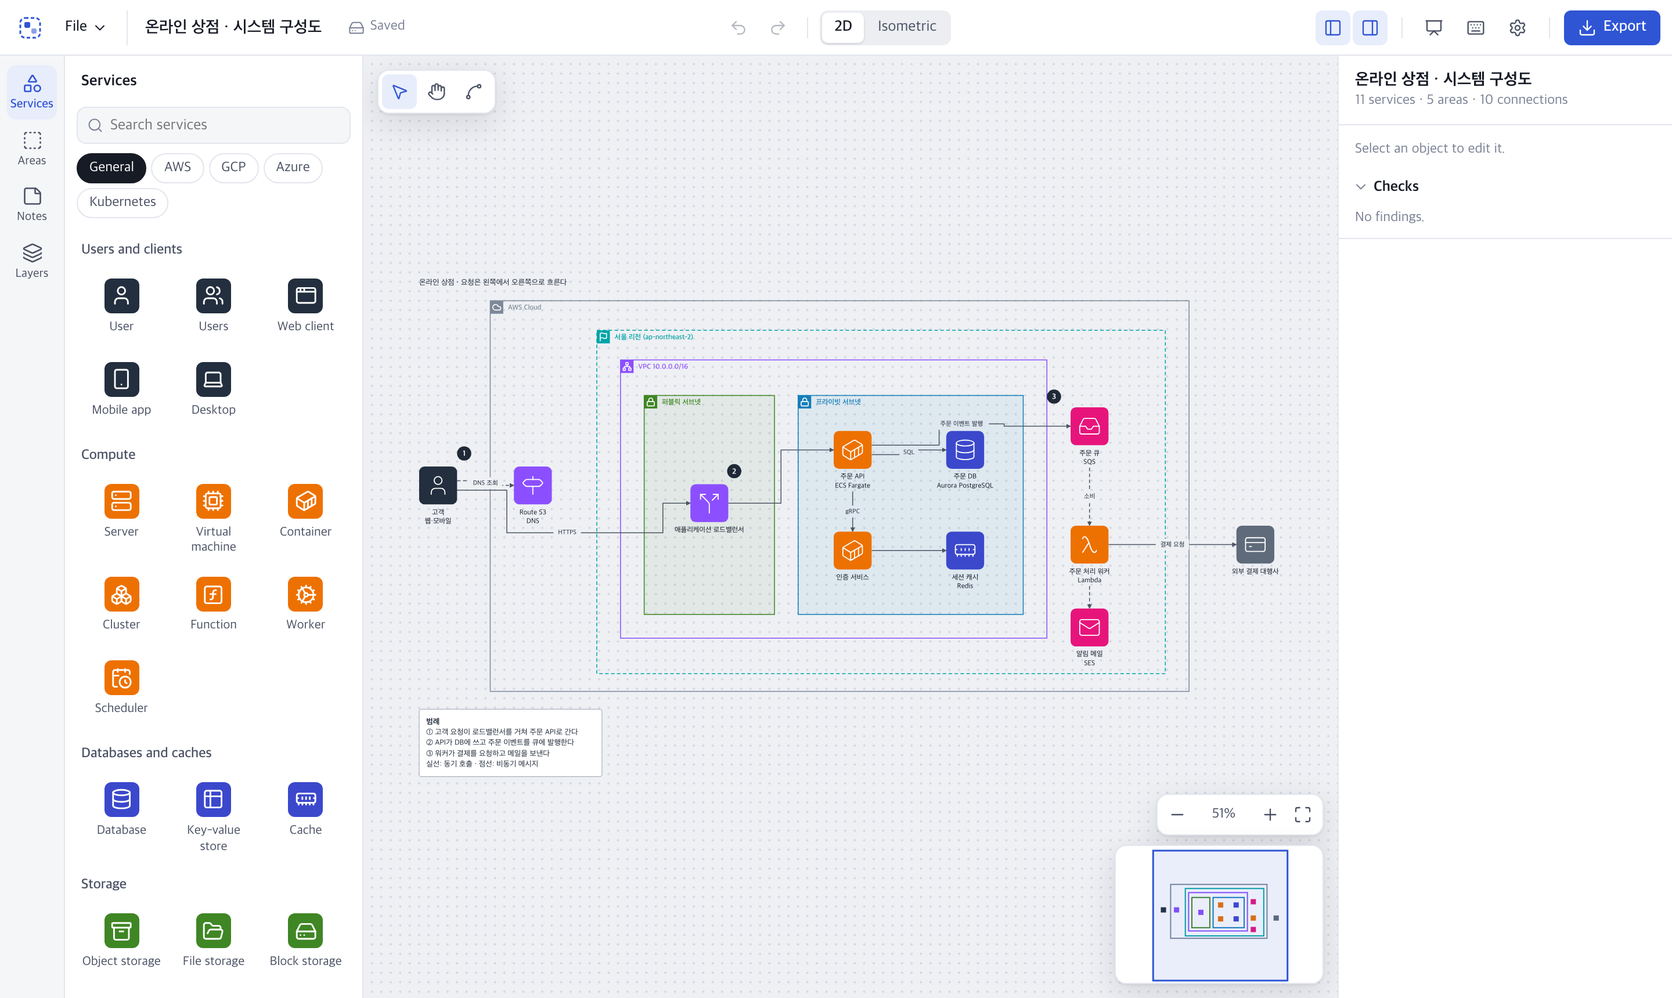
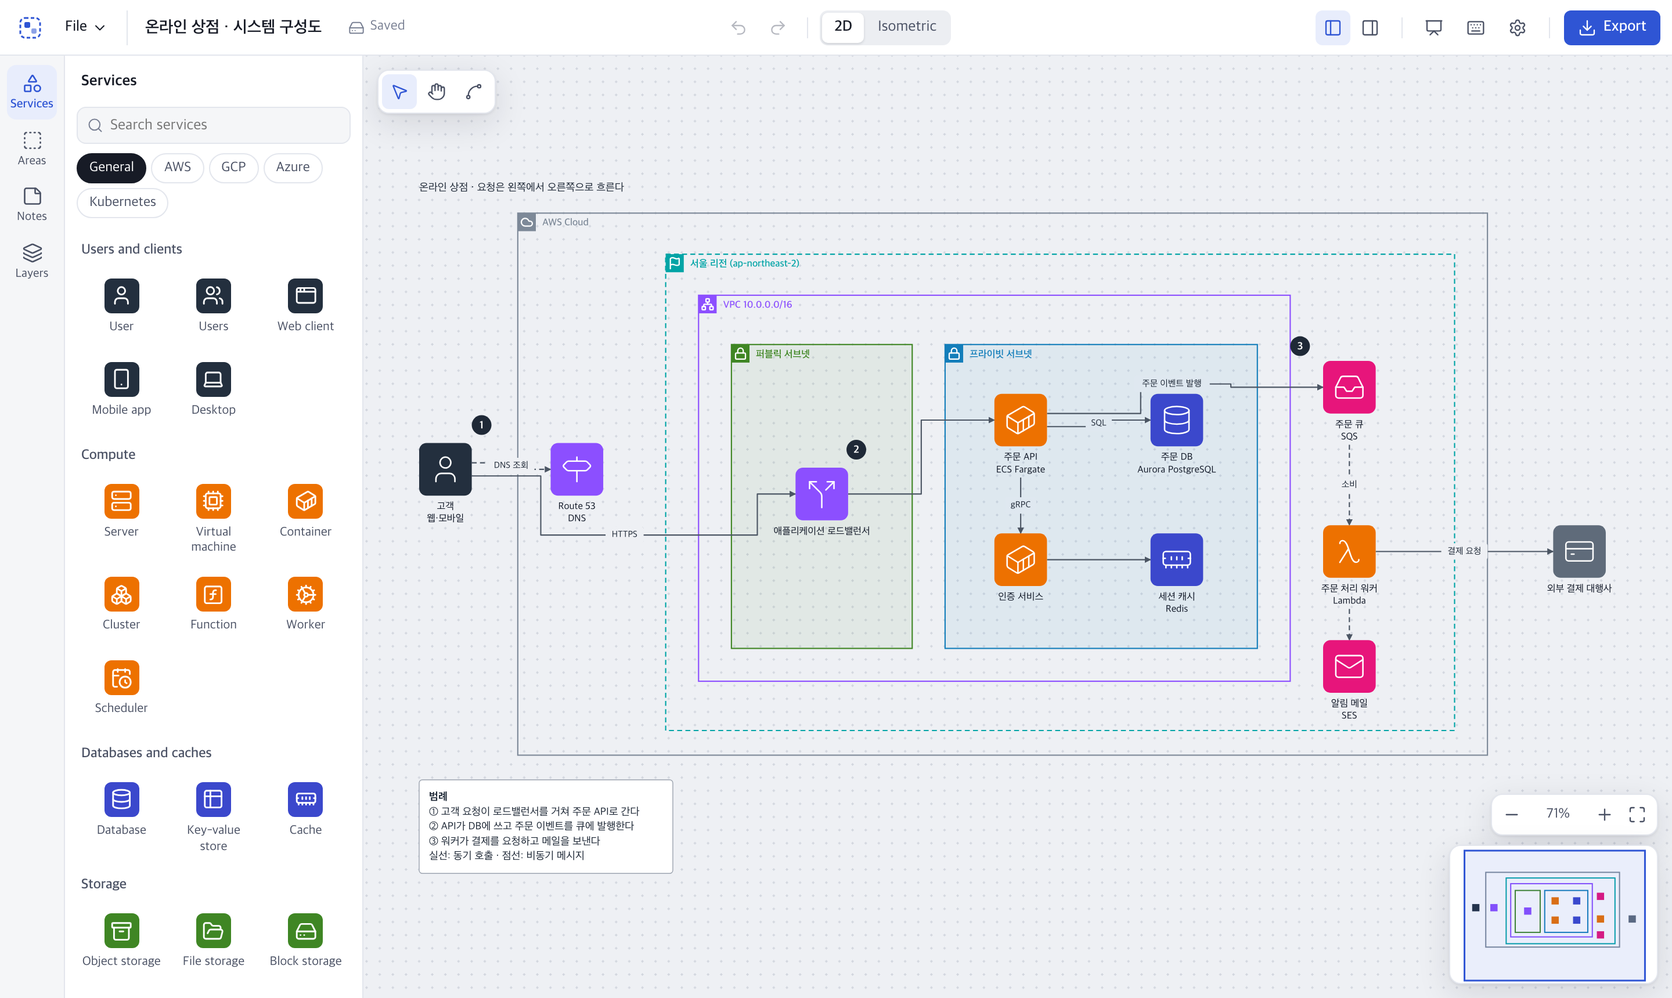
기본 우측 메뉴 처리

diff --git a/src/components/Toolbar.tsx b/src/components/Toolbar.tsx
@@ -49,6 +49,8 @@ interface ToolbarProps extends ToolbarActions {
   fileName: string | null;
   leftOpen: boolean;
   rightOpen: boolean;
+  /** Checks that found something; shown on the inspector toggle while the inspector is folded. */
+  findingCount: number;
   drive?: DriveBar;
   /** Usage statistics in this build: the current choice and how to change it. */
   stats?: { readonly granted: boolean; toggle(): void };
@@ -79,6 +81,8 @@ export function Toolbar(props: ToolbarProps) {
   // Linked to a Drive file, the Drive status is the save status; otherwise it is this browser.
   const driveLinked = drive !== undefined && drive.view.state.status !== 'unlinked';
   const both = t('panels.both', { key: `${mod}\\` });
+  // Folded, the inspector still says when the checks found something.
+  const flagged = !props.rightOpen && !props.presenting && props.findingCount > 0;
   return (
     <header className="topbar" role="toolbar" aria-label="Structlet">
       <div className="topbar-start">
@@ -149,7 +153,10 @@ export function Toolbar(props: ToolbarProps) {
       <div className="topbar-end">
         <div className="panel-toggles" role="group" aria-label={t('panels.label')}>
           <IconButton icon="panelLeft" label={`${props.leftOpen ? t('panels.left.hide') : t('panels.left.show')} (${both})`} pressed={props.leftOpen} disabled={props.presenting} onClick={() => props.onLeftPanel(!props.leftOpen)} testId="toggle-left" />
-          <IconButton icon="panelRight" label={`${props.rightOpen ? t('panels.right.hide') : t('panels.right.show')} (${both})`} pressed={props.rightOpen} disabled={props.presenting} onClick={() => props.onRightPanel(!props.rightOpen)} testId="toggle-right" />
+          <span className="badge-anchor">
+            <IconButton icon="panelRight" label={`${props.rightOpen ? t('panels.right.hide') : t('panels.right.show')}${flagged ? ` · ${t('panels.findings', { count: props.findingCount })}` : ''} (I · ${both})`} pressed={props.rightOpen} disabled={props.presenting} onClick={() => props.onRightPanel(!props.rightOpen)} testId="toggle-right" />
+            {flagged && <span className="toggle-badge" data-testid="findings-badge" aria-hidden="true">{props.findingCount > 9 ? '9+' : props.findingCount}</span>}
+          </span>
         </div>
         <span className="topbar-divider" aria-hidden="true" />
         <IconButton icon="present" label={`${props.presenting ? t('view.exit') : t('view.present')} (${mod}.)`} pressed={props.presenting} onClick={() => props.onPresent(!props.presenting)} testId="tb-present" />

diff --git a/tests/e2e/tools-panels.spec.ts b/tests/e2e/tools-panels.spec.ts
@@ -161,3 +161,34 @@ test('the save status sits right after the title and follows its length', async 
   await expect.poll(async () => (await title.boundingBox())!.width).toBeLessThan(wide);
   expect(await gap()).toBeLessThan(12);
 });
+
+test('the inspector starts folded, opens with I, and its toggle counts check findings', async ({ page }) => {
+  await freshApp(page, 'en', { inspector: false });
+  await expect(page.locator('.inspector')).toHaveCount(0);
+  await expect(page.getByTestId('toggle-right')).toHaveAttribute('aria-pressed', 'false');
+  await expect(page.getByTestId('findings-badge')).toHaveCount(0);
+
+  // Two services with no line between them are two findings ("Service without connections"):
+  // the folded toggle says so.
+  const search = page.getByLabel('Search services');
+  await search.fill('server');
+  await page.locator('[data-service="server"]').click();
+  await search.fill('database');
+  await page.locator('[data-service="database"]').click();
+  await page.keyboard.press('Escape');
+  await expect(page.getByTestId('findings-badge')).toHaveText('2');
+  await expect(page.getByTestId('toggle-right')).toHaveAttribute('aria-label', /2 check findings/);
+
+  // I opens the inspector, where the finding is listed, and the badge steps aside.
+  await page.locator('body').press('i');
+  await expect(page.locator('.inspector')).toBeVisible();
+  await expect(page.getByTestId('checks')).toContainText('Service without connections');
+  await expect(page.getByTestId('findings-badge')).toHaveCount(0);
+  await page.locator('body').press('i');
+  await expect(page.locator('.inspector')).toHaveCount(0);
+
+  // Typing an I into a field does not fold anything.
+  await page.locator('body').press('i');
+  await search.fill('i');
+  await expect(page.locator('.inspector')).toBeVisible();
+});

diff --git a/src/app/use-shortcuts.ts b/src/app/use-shortcuts.ts
@@ -13,6 +13,7 @@ interface ShortcutDeps {
   setTool(tool: CanvasTool): void;
   tool(): CanvasTool;
   togglePanels(): void;
+  toggleInspector(): void;
   presenting(): boolean;
   setPresenting(on: boolean): void;
 }
@@ -25,7 +26,7 @@ export function useShortcuts(deps: ShortcutDeps): void {
     const onKey = (e: KeyboardEvent) => {
       const target = e.target as HTMLElement | null;
       if (target?.closest?.('input, textarea, select, [contenteditable="true"]')) return;
-      const { editor, actions, fit, zoom, edit, setTool, tool, togglePanels, presenting, setPresenting } = latest.current;
+      const { editor, actions, fit, zoom, edit, setTool, tool, togglePanels, toggleInspector, presenting, setPresenting } = latest.current;
       const session = editor.session;
       const mod = e.metaKey || e.ctrlKey;
       const key = e.key.toLowerCase();
@@ -49,6 +50,11 @@ export function useShortcuts(deps: ShortcutDeps): void {
       if (!mod && !e.altKey && !e.shiftKey && (key === 'v' || key === 'h' || key === 'c') && !presenting()) {
         handled();
         setTool(key === 'v' ? 'select' : key === 'h' ? 'hand' : 'connect');
+        return;
+      }
+      if (!mod && !e.altKey && !e.shiftKey && key === 'i' && !presenting()) {
+        handled();
+        toggleInspector();
         return;
       }
       if (presenting()) return;

diff --git a/src/app/styles.css b/src/app/styles.css
@@ -341,6 +341,8 @@ button.twisty:hover { background: var(--surface-3); color: var(--ink); }
 .tool-hint { position: absolute; left: 12px; top: 56px; z-index: 4; max-width: 320px; padding: 5px 10px; background: var(--surface); border: 1px solid var(--line); border-radius: 8px; box-shadow: var(--float); color: var(--ink-2); font-size: 12px; }
 .tool-hint.present { top: 12px; }
 .panel-toggles { display: flex; gap: 2px; }
+.badge-anchor { position: relative; display: inline-flex; }
+.toggle-badge { position: absolute; top: -3px; right: -4px; min-width: 14px; height: 14px; padding: 0 3px; border-radius: 999px; background: var(--warn); color: var(--surface); font-size: 9.5px; font-weight: 600; line-height: 14px; text-align: center; pointer-events: none; box-shadow: 0 0 0 2px var(--surface); }
 
 /* Google Drive */
 .drive-button { display: inline-flex; align-items: center; gap: 5px; height: 26px; padding: 0 9px; border: 1px solid var(--line); border-radius: 999px; background: var(--surface); color: var(--ink-2); white-space: nowrap; font-size: 12px; }

diff --git a/tests/e2e/helpers.ts b/tests/e2e/helpers.ts
@@ -1,11 +1,16 @@
 import { expect, type Page } from '@playwright/test';
 
-export async function freshApp(page: Page, language: 'ko' | 'en' = 'en') {
+/**
+ * A first visit, except that the inspector starts open: most tests edit through it.
+ * Pass `{ inspector: false }` for the real first-visit layout (inspector folded).
+ */
+export async function freshApp(page: Page, language: 'ko' | 'en' = 'en', { inspector = true }: { inspector?: boolean } = {}) {
   await page.goto('/');
-  await page.evaluate((l) => {
+  await page.evaluate(([l, open]) => {
     localStorage.clear();
     localStorage.setItem('structlet:language', l);
-  }, language);
+    if (open) localStorage.setItem('structlet:panels', JSON.stringify({ left: true, right: true }));
+  }, [language, inspector] as const);
   await page.reload();
   await expect(page.getByTestId('canvas')).toBeVisible();
 }

diff --git a/src/app/App.tsx b/src/app/App.tsx
@@ -213,6 +213,7 @@ export function App({ editor, store, files, packStore, drive: driveServices, dri
     edit: setEditing,
     setTool,
     togglePanels: () => togglePanels(),
+    toggleInspector: () => setPanels({ ...panelsRef.current, right: !panelsRef.current.right }),
     presenting: () => presentingRef.current,
     setPresenting,
     tool: () => toolRef.current,
@@ -280,6 +281,7 @@ export function App({ editor, store, files, packStore, drive: driveServices, dri
         onShortcuts={() => setShortcutsOpen(true)}
         leftOpen={panels.left}
         rightOpen={panels.right}
+        findingCount={findings.length}
         onLeftPanel={(left) => setPanels({ ...panels, left })}
         onRightPanel={(right) => setPanels({ ...panels, right })}
         onTogglePanels={togglePanels}

diff --git a/src/i18n/ko.ts b/src/i18n/ko.ts
@@ -261,9 +261,11 @@ export const ko: Record<MessageKey, string> = {
   'view.hint': '보기 모드: 끌어서 이동하고 스크롤로 확대합니다. Esc를 누르면 다시 편집합니다.',
   'sc.tools': '선택, 손, 연결 도구',
   'sc.panels': '패널 숨기기, 보이기',
+  'sc.inspector': '인스펙터 숨기기, 보이기',
   'sc.present': '보기 모드',
   'tool.connectHint': '한 상자에서 다른 상자로 끌어 연결합니다. Esc를 누르면 멈춥니다.',
   'panels.both': '양쪽: {key}',
+  'panels.findings': '점검 {count}건',
   'panels.label': '패널',
   'drive.section': 'Google Drive',
   'drive.connect': 'Google Drive 연결',

diff --git a/src/i18n/en.ts b/src/i18n/en.ts
@@ -259,9 +259,11 @@ export const en = {
   'view.hint': 'View mode: drag to move, scroll to zoom. Press Esc to edit again.',
   'sc.tools': 'Select, hand, connect tools',
   'sc.panels': 'Hide or show panels',
+  'sc.inspector': 'Hide or show the inspector',
   'sc.present': 'View mode',
   'tool.connectHint': 'Drag from one box to another to connect them. Press Esc to stop.',
   'panels.both': 'both: {key}',
+  'panels.findings': '{count} check findings',
   'panels.label': 'Panels',
   'drive.section': 'Google Drive',
   'drive.connect': 'Connect Google Drive',

diff --git a/src/app/preferences.ts b/src/app/preferences.ts
@@ -10,7 +10,9 @@ export function storedPanels(): Panels {
   } catch {
     // per-browser convenience only
   }
-  return { left: true, right: !window.matchMedia?.('(max-width: 1100px)').matches };
+  // The inspector starts folded: an empty canvas has nothing to inspect. It opens from its
+  // top-bar toggle or `I`, and the toggle shows how many checks found something.
+  return { left: true, right: false };
 }
 
 export const RECENT_KEY = 'structlet:recent-services';

diff --git a/src/components/Overlays.tsx b/src/components/Overlays.tsx
@@ -38,6 +38,7 @@ const SHORTCUTS: [string, MessageKey][] = [
   ['Alt', 'sc.marquee'],
   ['V H C', 'sc.tools'],
   ['⌘\\', 'sc.panels'],
+  ['I', 'sc.inspector'],
   ['⌘.', 'sc.present'],
 ];
 

diff --git a/README.md b/README.md
@@ -9,14 +9,17 @@ and export to SVG or PNG — no server, no account, no external AI calls.
 
 [![CI](https://github.com/sejoung/Structlet/actions/workflows/ci.yml/badge.svg)](https://github.com/sejoung/Structlet/actions/workflows/ci.yml)
 [![Pages](https://github.com/sejoung/Structlet/actions/workflows/pages.yml/badge.svg)](https://github.com/sejoung/Structlet/actions/workflows/pages.yml)
-[![License](https://img.shields.io/badge/license-Apache--2.0-blue.svg)](LICENSE)
-[![Node](https://img.shields.io/badge/node-%3E%3D22-339933?logo=node.js&logoColor=white)](.nvmrc)
+[![License](https://img.shields.io/github/license/sejoung/Structlet)](LICENSE)
+[![Node](https://img.shields.io/badge/dynamic/json?url=https%3A%2F%2Fraw.githubusercontent.com%2Fsejoung%2FStructlet%2Fmain%2Fpackage.json&query=%24.engines.node&label=node&logo=node.js&logoColor=white&color=339933)](package.json)
 <br>
-[![TypeScript](https://img.shields.io/badge/TypeScript-3178C6?logo=typescript&logoColor=white)](tsconfig.json)
-[![React](https://img.shields.io/badge/React_19-20232A?logo=react&logoColor=61DAFB)](package.json)
-[![Vite](https://img.shields.io/badge/Vite-646CFF?logo=vite&logoColor=white)](vite.config.ts)
-[![Vitest](https://img.shields.io/badge/unit_tests-122-6E9F18?logo=vitest&logoColor=white)](tests/unit)
-[![Playwright](https://img.shields.io/badge/e2e_tests-36-2EAD33?logo=playwright&logoColor=white)](tests/e2e)
+[![TypeScript](https://img.shields.io/github/package-json/dependency-version/sejoung/Structlet/dev/typescript?logo=typescript&logoColor=white&color=3178C6&label=typescript)](tsconfig.json)
+[![React](https://img.shields.io/github/package-json/dependency-version/sejoung/Structlet/react?logo=react&logoColor=61DAFB&color=20232A&label=react)](package.json)
+[![Vite](https://img.shields.io/github/package-json/dependency-version/sejoung/Structlet/dev/vite?logo=vite&logoColor=white&color=646CFF&label=vite)](vite.config.ts)
+<br>
+[![Vitest](https://img.shields.io/badge/unit-Vitest-6E9F18?logo=vitest&logoColor=white)](tests/unit)
+[![Playwright](https://img.shields.io/badge/e2e-Playwright-2EAD33?logo=playwright&logoColor=white)](tests/e2e)
+[![oxlint](https://img.shields.io/badge/lint-oxlint-32F3E9)](.oxlintrc.json)
+[![dependency-cruiser](https://img.shields.io/badge/architecture-dependency--cruiser-4B32C3)](.dependency-cruiser.cjs)
 
 **English** · [한국어](README.ko.md)
 
@@ -40,7 +43,7 @@ and export to SVG or PNG — no server, no account, no external AI calls.
 
 ## Getting started
 
-Requires Node.js 22 or later (developed on Node 24, npm 11).
+Requires Node.js 22 or later (CI and development use Node 24 from [`.nvmrc`](.nvmrc), npm 11).
 
 ```bash
 npm install
@@ -52,10 +55,11 @@ The editor opens on an empty canvas. Choose **File → Sample** (or **Open sampl
 | Command | What it does |
 | --- | --- |
 | `npm run dev` | Dev server (`127.0.0.1:5183`). Drive works; usage statistics are not sent |
+| `npm run typecheck` | Type check only (`tsc --noEmit`) |
 | `npm run build` | Type check + static build (`dist/`). Uses relative paths, so any static host works, at the domain root or a sub-path |
 | `npm run build:single` | One HTML file (`dist-single/structlet.html`, about 0.5 MB) that opens by double-click (`file://`) |
 | `npm run preview` | Preview the build (`127.0.0.1:5184`, with CSP) |
-| `npm test` | Unit tests (Vitest, `tests/unit`) |
+| `npm test` | Unit tests (Vitest, `tests/unit`); `npm run test:watch` reruns them on change |
 | `npm run e2e` | Builds the single file, then runs E2E (Playwright, `tests/e2e`) against two production builds served by `vite preview`, with Google mocked. Run `npx playwright install chromium` once first |
 | `npm run lint` | oxlint: at most 400 lines per file, no `console` in `src/`, correctness rules (`.oxlintrc.json`) |
 | `npm run deps` | dependency-cruiser: layer direction, allowed packages, cycles, unresolvable or undeclared imports (`.dependency-cruiser.cjs`) |
@@ -75,7 +79,7 @@ The screen has four parts:
 
 - **Top bar** — on the left, the file menu, the title and, right after it, where the diagram is saved (this browser, or Google Drive once linked); undo and 2D / isometric in the middle; on the right, panel toggles, view mode, shortcuts, settings (⚙) and **Export**.
 - **Left** — an icon rail switches between the **Services / Areas / Notes / Layers** panels.
-- **Right inspector** — properties of the selected object.
+- **Right inspector** — properties of the selected object. Folded on the first visit; open it with its top-bar toggle or `I` when you need it.
 - **Canvas** — a toolbar floats at the top left; the zoom bar and minimap at the bottom right.
 
 <details>
@@ -84,7 +88,8 @@ The screen has four parts:
 The panels can be hidden. Two toggles — **[left panel] [right panel]** — always sit in the same place on the right of the top bar.
 
 - A toggle shows as pressed while its panel is visible.
-- `⌘\` toggles both at once. Clicking the open tab on the rail again also collapses the left panel.
+- `⌘\` toggles both at once, and `I` toggles the inspector. Clicking the open tab on the rail again also collapses the left panel.
+- The inspector starts folded: an empty canvas has nothing to inspect. While it is folded, its toggle shows how many checks found something.
 - The hidden state is remembered in this browser. The right panel collapses automatically when the window is narrower than 1100 px.
 - Opening and closing panels keeps the diagram's on-screen center in place.
 
@@ -153,10 +158,15 @@ The panels can be hidden. Two toggles — **[left panel] [right panel]** — alw
 | ⌘D, Delete/Backspace | Duplicate, delete |
 | ⌘A, Esc | Select all, deselect |
 | Arrows, ⇧+arrows | Move 1 px, 8 px |
+| Enter / F2, ⇧+Enter | Rename, line break while renaming |
+| Tab, ⇧+Tab | Next, previous object on the canvas |
+| ⌘0, ⌘+, ⌘− | Fit to screen, zoom in, zoom out |
+| Space+drag | Pan with any tool |
 | Alt+drag on an area | Marquee select over an area |
 | V, H, C | Select, hand, connect tools |
 | ⌘\ | Hide / show panels |
-| ⌘. | View mode |
+| I | Hide / show the inspector |
+| ⌘., Esc | View mode, leave view mode |
 
 ### Saving
 
@@ -166,21 +176,23 @@ Changes autosave to this browser's `localStorage` and survive a reload. To keep 
 
 ```text
 src/
-  domain/       document, node, area, connector and note models; hierarchy, commands, patches, validation   (no dependencies)
-  application/  editing session (preview, undo/redo, selection), editing use cases                         (domain)
-  engine/       world coordinates, scene, ports and routing, auto-layout, snapping and alignment,
-                hit testing, SVG and isometric markup                                                       (domain)
-  adapters/     .structlet format; draft, compose, Kubernetes and Terraform import; autosave, file I/O,
-                SVG/PNG; per-provider catalogs, icon packs, legend, checks
-  components/   top bar, sidebar (services, areas, notes, layers), canvas, inspector, shared UI (ui/)
-  app/          wiring, autosave, shortcuts
-  i18n/         Korean and English messages
+  domain/       models, hierarchy, commands, patches, validation, three-way merge (sync/)        uses: nothing
+  application/  editing session (preview, undo/redo, selection), Drive sync, storage ports        uses: domain
+  engine/       coordinates, scene, ports and routing, auto-layout, snapping, alignment,
+                hit testing, SVG and isometric markup                                             uses: domain
+  adapters/     .structlet format, draft / compose / Kubernetes / Terraform import, storage,
+                files, SVG/PNG export, catalogs, icon packs, checks, Google Drive, analytics      uses: domain, engine, application
+  components/   top bar, Drive status, sidebar, canvas, inspector, shared UI (ui/)                uses: domain, engine, application, i18n
+  app/          wiring, autosave, shortcuts, clipboard, theme, Drive and statistics hooks         uses: everything
+  i18n/         Korean and English messages                                                       uses: nothing
 tests/
   unit/         domain · application · engine · adapters · architecture (Vitest)
-  e2e/          runs the real app (Playwright)
+  e2e/          the real app on production builds, Google mocked (Playwright)
+scripts/        CSP for the web build, single-file rename, Playwright image check
 samples/        sample .structlet, draft JSON example
-docs/draft-format.md  draft JSON format
+docs/           ci.md, google-drive.md, draft-format.md, images/
 docs/adr/       design records; stormlet-reference/ holds the Stormlet ADRs used as reference
+.dependency-cruiser.cjs   layer and import rules       .oxlintrc.json   lint rules (400 lines per file)
 ```
 
 The layer rules are enforced in three places, all part of `npm run check` and CI: [`.dependency-cruiser.cjs`](.dependency-cruiser.cjs) checks import direction, allowed packages per layer and cycles; [`.oxlintrc.json`](.oxlintrc.json) caps files at 400 lines so no single file takes on too much; `tests/unit/architecture/layers.test.ts` checks what an import graph cannot (browser globals in pure layers, where stateful adapters are created, matching Korean / English keys). The reasoning behind each decision is in [docs/adr](docs/adr/README.md).
@@ -192,6 +204,15 @@ The layer rules are enforced in three places, all part of `npm run check` and CI
 - **Catalog vs. icons** — service definitions (catalog) are separate from their look (icon packs). Official icons are loaded by the user ([ADR 0006](docs/adr/0006-service-catalog-and-icons.md), [ADR 0013](docs/adr/0013-icon-packs.md)).
 - **Deployment** — a static site (with CSP) or a single HTML file ([ADR 0014](docs/adr/0014-static-deployment.md)).
 - **Sync and statistics** — Drive sync wraps the session with a three-way merge whose result keeps the hierarchy rules ([ADR 0016](docs/adr/0016-google-drive-sync.md)). Usage statistics send only listed events, after consent ([ADR 0017](docs/adr/0017-usage-statistics.md)). Both were ported from Stormlet (MIT) by the same author.
+
+## Development rules
+
+- **Layers** — put code in the layer that owns it ([ADR 0001](docs/adr/0001-layered-local-first.md)). `npm run deps` fails when an import crosses a layer the wrong way, uses a package the layer may not use, forms a cycle, or does not resolve.
+- **400 lines per file** — `npm run lint` fails past 400 lines. Split a file by responsibility before it gets there, rather than raising the limit.
+- **No `console` in `src/`** — report through the diagnostics log (`adapters/diagnostics`).
+- **Both languages** — every message key exists in `src/i18n/ko.ts` and `en.ts` (a unit test checks).
+- **Before pushing** — `npm run check` runs everything CI's `checks` job runs; `npm run verify` adds the E2E tests.
+- **Changing a rule** — update the ADR together with `.dependency-cruiser.cjs`, `.oxlintrc.json` or `tests/unit/architecture/layers.test.ts`.
 
 ## Tests
 
@@ -219,7 +240,7 @@ The layer rules are enforced in three places, all part of `npm run check` and CI
 </details>
 
 <details>
-<summary><b>36 E2E tests</b> (<code>tests/e2e</code>, production builds)</summary>
+<summary><b>37 E2E tests</b> (<code>tests/e2e</code>, production builds)</summary>
 
 - **Basic flow** — two nodes → connect → save → open → reload → SVG (same paths as the screen), PNG, rejecting an invalid file
 - **Areas** — dragging a VPC then a single undo, dragging into another area, wrapping
@@ -231,7 +252,7 @@ The layer rules are enforced in three places, all part of `npm run check` and CI
 - **Deployment** — single HTML opened from `file://` (import, export, autosave, Drive disabled); no CSP violations in the production build
 - **Drive** (mocked Google) — connect, folder save, autosave, ⌘S; reconnect after reload (never writes an empty document); remote change merge and conflict choice; open, stop syncing, disconnect
 - **Usage statistics** — nothing sent before consent; events and URL cleanup after allowing; turning off; refusing
-- **Panels and tools** — panel collapse and memory, `⌘\` for both panels, top-bar buttons that keep their place, save status right after the title (fixed position, canvas to the window edge, center kept); hand tool (pans only, document unchanged, no edits); connect tool (consecutive connections, panning empty space, Esc); view mode
+- **Panels and tools** — panel collapse and memory, `⌘\` for both panels, inspector folded on the first visit with `I` and a findings badge, top-bar buttons that keep their place, save status right after the title (fixed position, canvas to the window edge, center kept); hand tool (pans only, document unchanged, no edits); connect tool (consecutive connections, panning empty space, Esc); view mode
 - **Layout** — layer tree (hierarchy, selection sync with the canvas, keyboard, rename, drag to reparent and undo, collapse), recently used, shortcuts dialog, keyboard menu navigation
 
 </details>
